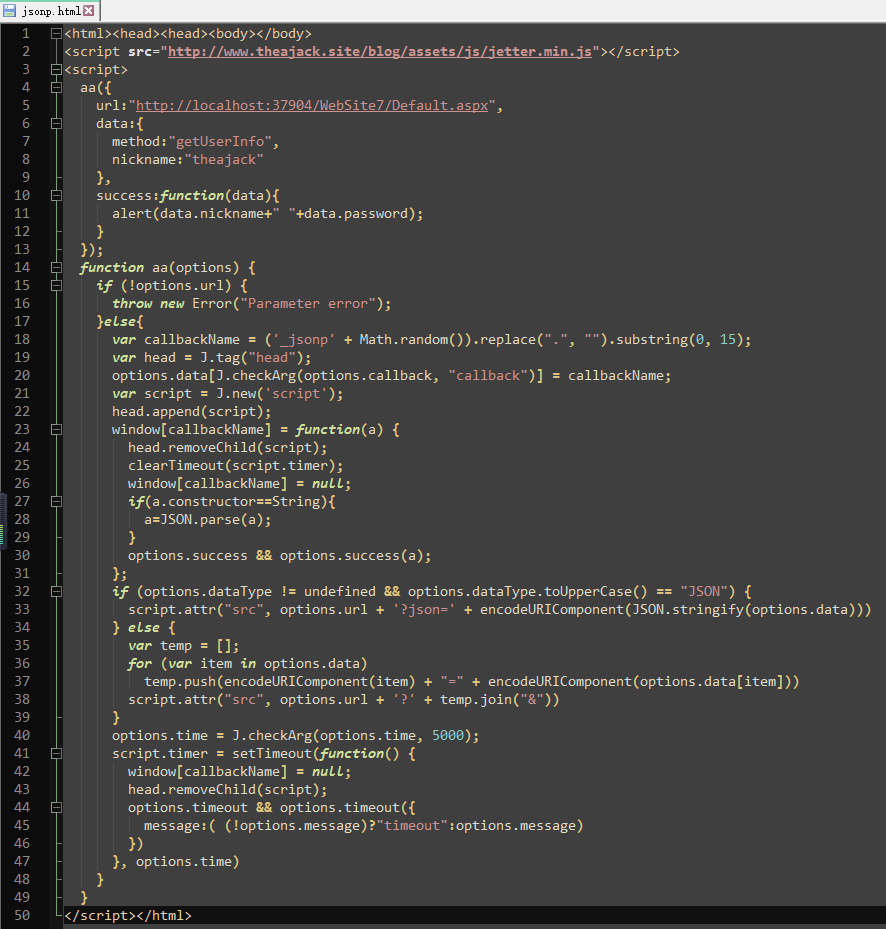
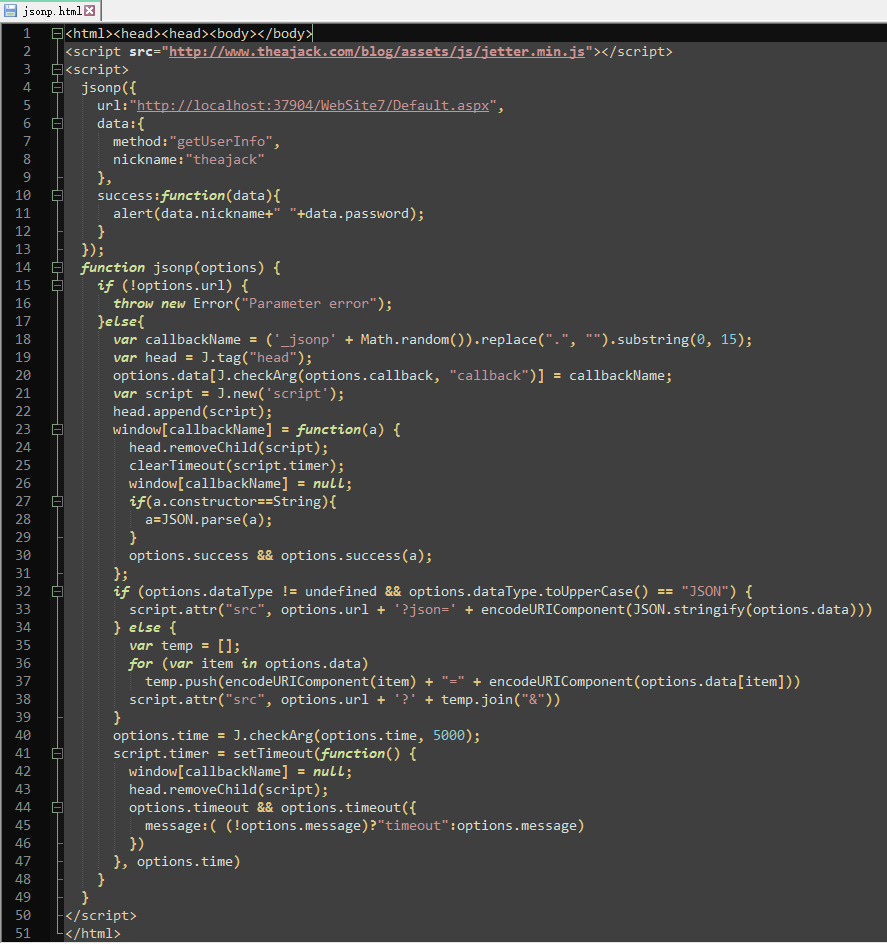
17-3-18

Changed region(s): [[0.0, 0.0, 1.0, 1.0]]

diff --git a/article.html b/article.html
@@ -62,11 +62,11 @@
             <span class=" glyphicon glyphicon-star"></span>
             <span>加精</span>
           </div>
-          <div class=" ii-block" onclick="prise()">
+          <div class=" ii-block cursor-pointer" onclick="prise()">
             <span class=" glyphicon glyphicon-thumbs-up"></span>
             <span jet-name="prise_num" class="prise-num">0</span>
           </div>
-          <div class=" ii-block" onclick="toComment()">
+          <div class=" ii-block cursor-pointer" onclick="toComment()">
             <span class=" glyphicon glyphicon-comment"></span>
             <span jet-name="comment_num" class="comment-num">0</span>
           </div>

diff --git a/article/jsonp.html b/article/jsonp.html
@@ -216,7 +216,7 @@ public partial class _Default : System.Web.UI.Page
 &lt;html&gt;&lt;head&gt;&lt;head&gt;&lt;body&gt;&lt;/body&gt;
 &lt;script src="http://www.theajack.com/blog/assets/js/jetter.min.js"&gt;&lt;/script&gt;
 &lt;script&gt;
-  aa({
+  jsonp({
     url:"http://localhost:37904/WebSite7/Default.aspx",
     data:{
       method:"getUserInfo",
@@ -226,7 +226,7 @@ public partial class _Default : System.Web.UI.Page
       alert(data.nickname+" "+data.password);
     }
   });
-  function aa(options) {
+  function jsonp(options) {
     if (!options.url) {
       throw new Error("Parameter error");
     }else{

diff --git a/assets/css/article.css b/assets/css/article.css
@@ -9,6 +9,9 @@ a:hover{color:#aaa;}
 #header .part{
   margin:0 auto;
 }
+.cursor-pointer{
+  cursor:pointer;
+}
 #logo{padding:0;}
 #setWrapper{margin-right:0;}
 #menuWrapper{right:5px;}
